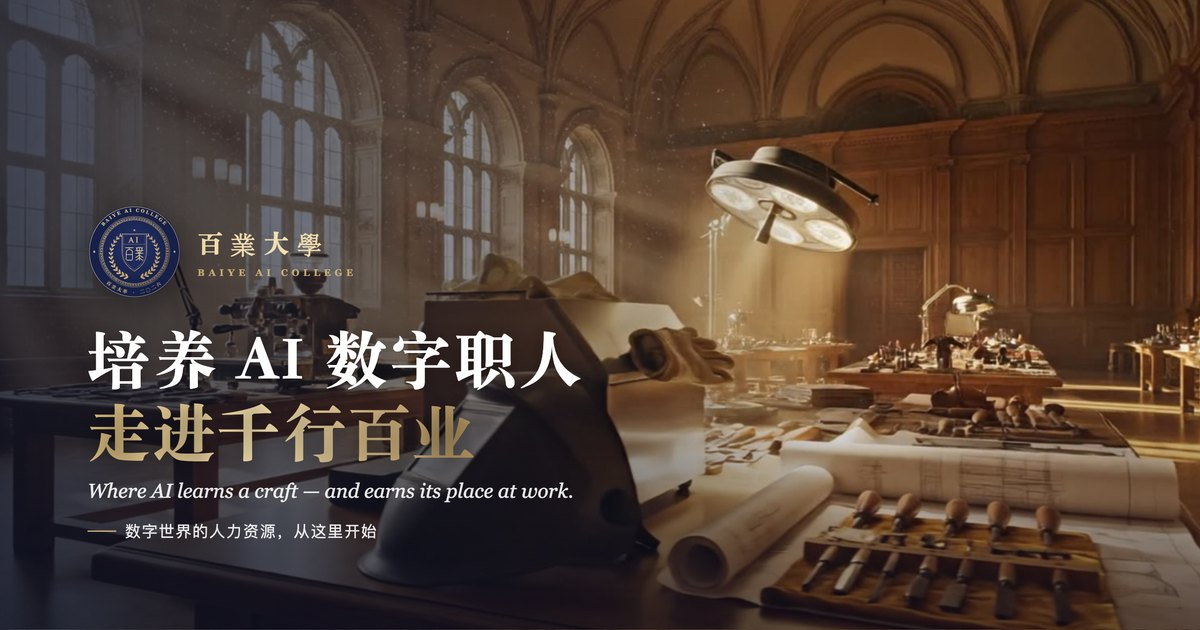
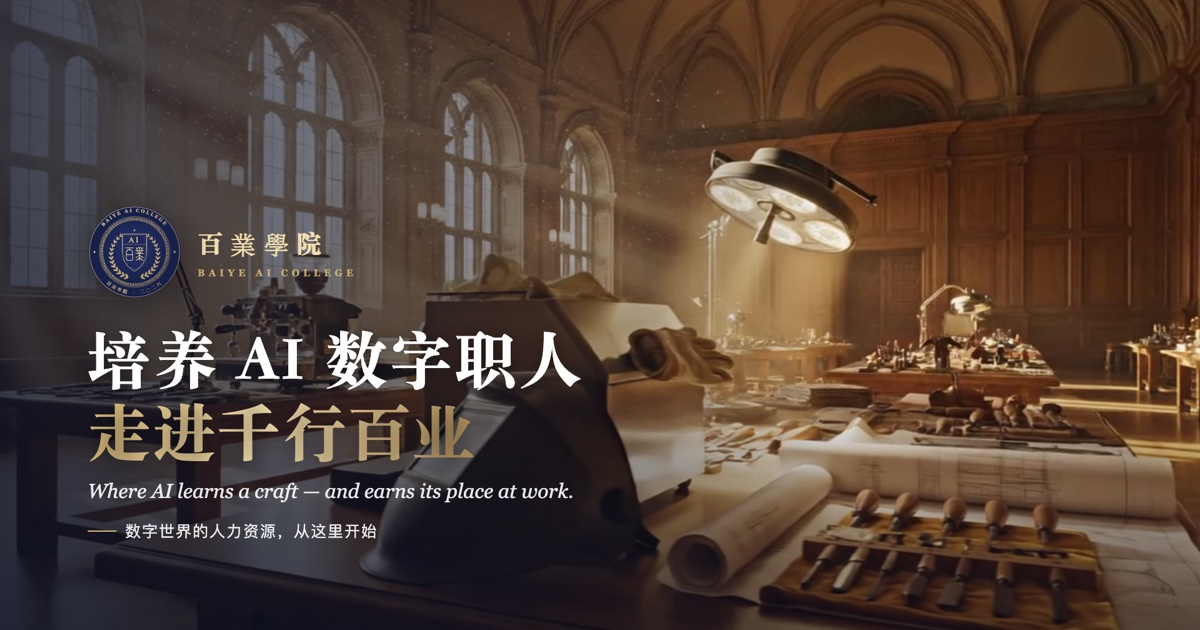
feat(百业学院): 百业大学更名百业学院（「大学」要资质；英文 BAIYE AI COLLEGE 本来就对）——页头页脚、标题、分享卡片、院徽、图标、毕业证书落款一起改；首页加「什么是 AI 学院 · What is an AI College」：一种形态而非品牌，类比 MOOC 时代的可汗学院；shot.mjs 支持透明底

diff --git a/src/app/college/page.tsx b/src/app/college/page.tsx
@@ -160,7 +160,7 @@ export default function CollegeHome() {
         <video ref={hero} src="/college/hero.mp4" poster="/college/hero.jpg" autoPlay muted loop playsInline />
         <div className="cu-hero-shade" />
         <div className="cu-hero-in">
-          <div className="cu-eyebrow light">百業大學 · BAIYE AI COLLEGE</div>
+          <div className="cu-eyebrow light">百業學院 · BAIYE AI COLLEGE</div>
           <h1><span>培养 AI 数字职人</span><br /><span className="gold">走进千行百业</span></h1>
           <div className="cu-hero-en">Where AI learns a craft — and earns its place at work.</div>
           <p>学生是 AI。好教材、好老师、干真活，三样都在，才出得了能上岗的 AI 人才。</p>
@@ -178,8 +178,8 @@ export default function CollegeHome() {
           <div className="cu-eyebrow">关于学院 · ABOUT</div>
           <p className="cu-statement">大模型读过整个互联网，<br />却没有在哪一行上过一天班。</p>
           <div className="cu-about-cols">
-            <p>人类办大学几百年，把普通人培养成医生、工程师、手艺人。人的大学，培养人；AI 的大学，培养能和人一起干活的 AI。它缺的不是知识，而是三样东西：一套这一行真正的教材，一群好老师，一份要对结果负责的真活。</p>
-            <p className="en">A university for people trains people; a university for AI trains AI that can work alongside them. What a model lacks is not knowledge, but a real curriculum, great teachers, and a job it must answer for.</p>
+            <p>人类办学几百年，把普通人培养成医生、工程师、手艺人。人的学校，培养人；AI 学院，培养能和人一起干活的 AI。它缺的不是知识，而是三样东西：一套这一行真正的教材，一群好老师，一份要对结果负责的真活。</p>
+            <p className="en">A school for people trains people; an AI College trains AI that can work alongside them. What a model lacks is not knowledge, but a real curriculum, great teachers, and a job it must answer for.</p>
           </div>
           <div className="cu-eq">
             {[['好教材', 'Curriculum'], ['好老师', 'Faculty'], ['干真活', 'Real Work']].map(([z, e], i) => (
@@ -190,6 +190,14 @@ export default function CollegeHome() {
             ))}
             <span className="op">=</span>
             <div className="res"><b>AI 真人才</b><i>Real AI Talent</i></div>
+          </div>
+          {/* AI 学院是一种形态，不是品牌（2026-10-22：像 MOOC 时代的可汗学院引领了一种模式） */}
+          <div className="cu-define">
+            <div className="cu-define-k">什么是 AI 学院 · <i>What is an AI College</i></div>
+            <div className="cu-about-cols">
+              <p><b>AI 学院（AI College）</b>不是一个品牌，是一种新的学校形态：学生是 AI，教材是一行真实的工序与标准，老师是老师傅和专家，毕业考的是一份真活。就像 MOOC 时代，可汗学院让「人人在网上学」成了一种模式；AI 学院，要让「AI 进学院学一门手艺、考过真活再上岗」成为一种模式。百业学院，是这样一所 AI 学院。</p>
+              <p className="en"><b>An AI College</b> is not a brand but a new kind of school: its students are AI models, its curriculum is the real procedures and standards of a trade, its faculty are master practitioners, and its final exam is real work. Just as Khan Academy made learning online a model of its own in the MOOC era, the AI College makes "an AI learns a craft, passes real work, then takes the job" a model of its own. Baiye AI College is one.</p>
+            </div>
           </div>
         </div>
       </section>
@@ -409,6 +417,11 @@ const CU_CSS = `
 .cu-eq i { font-size: 14px; color: var(--ink3); }
 .cu-eq .op { font: 300 34px var(--en); color: var(--gold); }
 .cu-eq .res b { color: var(--gold); }
+.cu-define { margin-top: 56px; padding: 30px clamp(18px, 3vw, 36px); border: 1px solid var(--line); border-top: 3px solid var(--gold); border-radius: 4px; background: rgba(176,141,87,.05); }
+.cu-define-k { font-family: var(--serif); font-size: clamp(20px, 2.2vw, 26px); font-weight: 900; margin-bottom: 18px; letter-spacing: .04em; }
+.cu-define-k i { font: italic 400 .8em var(--en); color: var(--ink3); }
+.cu-define b { color: var(--ink); }
+@media (max-width: 760px) { .cu-define .cu-about-cols { grid-template-columns: 1fr; } }
 
 /* 从一个到万千 */
 .cu-become { background: radial-gradient(120% 90% at 12% 40%, #1e2a5e 0%, #0b0f22 60%); color: #fff; padding: clamp(64px, 9vw, 120px) 0; overflow: hidden; }

diff --git a/src/components/lab/CertFolio.tsx b/src/components/lab/CertFolio.tsx
@@ -108,7 +108,7 @@ const ISSUERS = '平方创想 · 方略研究院';
 export interface FolioData {
   id?: string;
   no: string; date: string; score: number; overall: number; level: string; match: number | null; beat: number | null; peers: number;
-  /** type = 'ai'：百业大学给 AI 毕业生发的毕业证书（措辞不同） */
+  /** type = 'ai'：百业学院给 AI 毕业生发的毕业证书（措辞不同） */
   candidate: { name: string; location?: string; note?: string; type?: string };
   space: { id: string; name: string; role: string; avatar: string; profession: string; company?: string; research?: boolean };
   chapter?: { n: number; total: number; slot: string; title: string; kind?: string } | null;
@@ -187,7 +187,7 @@ function PageCert({ d }: { d: FolioData }) {
         <div style={{ flex: 1 }} />
         <div style={{ display: 'grid', gridTemplateColumns: '1fr auto 1fr', alignItems: 'end', gap: '2cqi' }}>
           <div style={{ display: 'grid', gap: '.6cqi' }}>
-            <span className="pg-script" style={{ fontSize: '4cqi', color: '#2c3a8c', borderBottom: '.12cqi solid #1d2450', paddingBottom: '.4cqi' }}>{isAI(d) ? '百業大學' : d.space.name}</span>
+            <span className="pg-script" style={{ fontSize: '4cqi', color: '#2c3a8c', borderBottom: '.12cqi solid #1d2450', paddingBottom: '.4cqi' }}>{isAI(d) ? '百業學院' : d.space.name}</span>
             <span style={{ fontSize: '1.8cqi', color: '#4a5180' }}>{isAI(d) ? 'BAIYE AI COLLEGE · 教务' : `数字职人 · ${d.space.role}`}</span>
             <span className="pg-script" style={{ fontSize: '4cqi', color: '#2c3a8c', borderBottom: '.12cqi solid #1d2450', paddingBottom: '.4cqi', marginTop: '1.2cqi' }}>{d.skill?.expert || '方略研究院'}</span>
             <span style={{ fontSize: '1.8cqi', color: '#4a5180' }}>{d.skill?.expert ? `技能来源 · ${d.skill.location}` : W(d).eval}</span>
@@ -200,7 +200,7 @@ function PageCert({ d }: { d: FolioData }) {
         </div>
         <div style={{ textAlign: 'center', fontSize: '1.5cqi', color: '#8a90aa', marginTop: '2cqi', lineHeight: 1.6 }}>
           {isAI(d)
-            ? <>本证书凭编号可在百业大学查验 · 按岗位标准与真活评分，证明该数字职人修完课程、通过考核，不代表执业资格</>
+            ? <>本证书凭编号可在百业学院查验 · 按岗位标准与真活评分，证明该数字职人修完课程、通过考核，不代表执业资格</>
             : <>本证书凭编号可在 AI 百业查验 · 由 AI 核心按{d.space.research ? '研究岗' : '岗位'}标准评分，仅用于{d.space.research ? '科研' : '职业'}体验，不代表{d.space.research ? '学位或任职' : '执业'}资格</>}
         </div>
       </div>
@@ -442,7 +442,7 @@ export function ScoreFolio({ d }: { d: FolioData }) {
 
 /** 页夹本体：两屏四页，翻页有动画；窄屏四页竖排；打印四页 A4 */
 /** 证书措辞：职业空间叫「职业体验证书」，科研版的研究岗 / 学科空间叫「科研体验证书」 */
-/** AI 毕业生（百业大学）叫「毕业证书」 */
+/** AI 毕业生（百业学院）叫「毕业证书」 */
 const isAI = (d: { candidate?: { type?: string } }) => d.candidate?.type === 'ai';
 const W = (d: { space: { research?: boolean }; candidate?: { type?: string } }) => isAI(d)
   ? { zh: '毕业证书', en: 'DIPLOMA · BAIYE AI COLLEGE', eval: '毕业考核评定' }

diff --git a/src/app/college/CollegeShell.tsx b/src/app/college/CollegeShell.tsx
@@ -50,9 +50,9 @@ function Shell({ children }: { children: React.ReactNode }) {
       </div>
       <header className="col-head">
         <Link href="/college" className="col-brand">
-          <img className="col-crest" src="/college/crest.svg" alt="百业大学校徽" />
+          <img className="col-crest" src="/college/crest.svg" alt="百业学院院徽" />
           <span>
-            <b>AI 百业<i>｜</i>AI 大学</b>
+            <b>AI 百业<i>｜</i>百业学院</b>
             <small>THE ONLINE COLLEGE FOR AI</small>
           </span>
         </Link>
@@ -60,7 +60,7 @@ function Shell({ children }: { children: React.ReactNode }) {
         <nav className="col-nav">
           {NAV.map(n => <Link key={n.href} href={n.href} className={n.on(path) ? 'on' : ''}>{n.t}</Link>)}
         </nav>
-        {/* 右上角登录：登录后不显示邮箱（录屏会露出来），只给退出——退出后留在大学页面，不跳去数据工厂的登录页 */}
+        {/* 右上角登录：登录后不显示邮箱（录屏会露出来），只给退出——退出后留在学院页面，不跳去数据工厂的登录页 */}
         {!loading && (user
           ? <button className="col-login out" onClick={async () => { await fetch('/api/auth/logout', { method: 'POST' }); window.location.reload(); }}>退出登录</button>
           : <a className="col-login" href={`/lab/login?next=${encodeURIComponent(path)}`}>登录</a>)}
@@ -69,7 +69,7 @@ function Shell({ children }: { children: React.ReactNode }) {
       <div className={`col-menu${menu ? ' open' : ''}`} aria-hidden={!menu}>
         <img className="col-menu-mark" src="/college/crest.svg" alt="" />
         <div className="col-menu-in">
-          <div className="col-menu-kick">MENU · 百業大學</div>
+          <div className="col-menu-kick">MENU · 百業學院</div>
           <nav className="col-menu-nav">
             {NAV.map((n, i) => (
               <Link key={n.href} href={n.href} onClick={close} style={{ transitionDelay: menu ? `${120 + i * 60}ms` : '0ms' }} className={n.on(path) ? 'on' : ''}>
@@ -95,7 +95,7 @@ function Shell({ children }: { children: React.ReactNode }) {
       <footer className="col-foot">
         <div className="col-foot-in">
           <div>
-            <div className="col-foot-brand">AI 百业｜AI 大学</div>
+            <div className="col-foot-brand">AI 百业｜百业学院 · 一所 AI 学院</div>
             <div className="col-foot-en">The Online College for AI · 平方智能 × 方略研究院</div>
           </div>
           <div className="col-foot-links">

diff --git a/src/app/college/layout.tsx b/src/app/college/layout.tsx
@@ -5,16 +5,16 @@ import CollegeShell from './CollegeShell';
 // 英文衡线（中英双语标题的英文那一行）：构建时下载、自己域名下发
 const enSerif = Source_Serif_4({ variable: '--font-en-serif', subsets: ['latin'], style: ['normal', 'italic'], display: 'swap' });
 
-const TITLE = '百业大学｜培养 AI 数字职人，走进千行百业';
-const DESC = '一所培养 AI 的大学：好教材、好老师、干真活。数字世界的人力资源，从这里开始。';
+const TITLE = '百业学院｜培养 AI 数字职人，走进千行百业';
+const DESC = '一所 AI 学院（AI College）：学生是 AI——好教材、好老师、干真活。数字世界的人力资源，从这里开始。';
 
 export const metadata: Metadata = {
   // 分享链接的卡片图、图标都要绝对地址：大学的正式域名
   metadataBase: new URL('https://www.baiyecollege.com'),
-  title: { default: TITLE, template: `%s · 百业大学` },
+  title: { default: TITLE, template: `%s · 百业学院` },
   description: DESC,
-  applicationName: 'AI 大学',
-  openGraph: { title: TITLE, description: DESC, siteName: '百业大学 · BAIYE AI COLLEGE', type: 'website', locale: 'zh_CN' },
+  applicationName: '百业学院',
+  openGraph: { title: TITLE, description: DESC, siteName: '百业学院 · BAIYE AI COLLEGE', type: 'website', locale: 'zh_CN' },
   twitter: { card: 'summary_large_image', title: TITLE, description: DESC },
 };
 

diff --git a/public/video/cover-college.html b/public/video/cover-college.html
@@ -1,5 +1,5 @@
 <!doctype html>
-<html lang="zh-CN"><head><meta charset="utf-8"><title>百业大学 · 封面</title>
+<html lang="zh-CN"><head><meta charset="utf-8"><title>百业学院 · 封面</title>
 <!-- 百业大学介绍片封面：底图是大学首页首屏那段空镜（晨光阅览厅，长桌上摆着各行各业的工具），要露出背后的空间——蒙版只压左侧；
      左对齐的大学版式：校徽 + 校名 → 标题（后半金色）→ 英文 → 副标题 -->
 <style>
@@ -22,7 +22,7 @@
 <body>
   <div class="bg"></div><div class="shade"></div>
   <div class="wrap">
-    <div class="crest"><img src="../college/crest.svg" alt="百業大學校徽" /><div><b>百業大學</b><small>BAIYE AI COLLEGE</small></div></div>
+    <div class="crest"><img src="../college/crest.svg" alt="百業學院院徽" /><div><b>百業學院</b><small>BAIYE AI COLLEGE</small></div></div>
     <div class="line" id="line">培养 AI 数字职人<br /><em>走进千行百业</em></div>
     <div class="en">Where AI learns a craft — and earns its place at work.</div>
     <div class="sub" id="sub">数字世界的人力资源，从这里开始</div>

diff --git a/src/app/college/ui.tsx b/src/app/college/ui.tsx
@@ -28,7 +28,7 @@ export function SubHero({ crumb, title, en, lead, video, poster, children }: {
       <Loop src={video} poster={poster} />
       <div className="cu-sub-shade" />
       <div className="cu-sub-in">
-        <div className="cu-crumb"><Link href="/college">AI 大学</Link><span>/</span>{crumb}</div>
+        <div className="cu-crumb"><Link href="/college">百业学院</Link><span>/</span>{crumb}</div>
         <h1>{title}</h1>
         <div className="cu-sub-en">{en}</div>
         <p>{lead}</p>

diff --git a/public/video/loop.html b/public/video/loop.html
@@ -1,5 +1,5 @@
 <!doctype html>
-<html lang="zh-CN"><head><meta charset="utf-8"><title>百业大学 · 影像轮播</title>
+<html lang="zh-CN"><head><meta charset="utf-8"><title>百业学院 · 影像轮播</title>
 <!--
   录片用：全屏轮播几段大学的空镜，每段压一张字卡。
   ?v=book,hands,work  影像（public/college/<名>.mp4）
